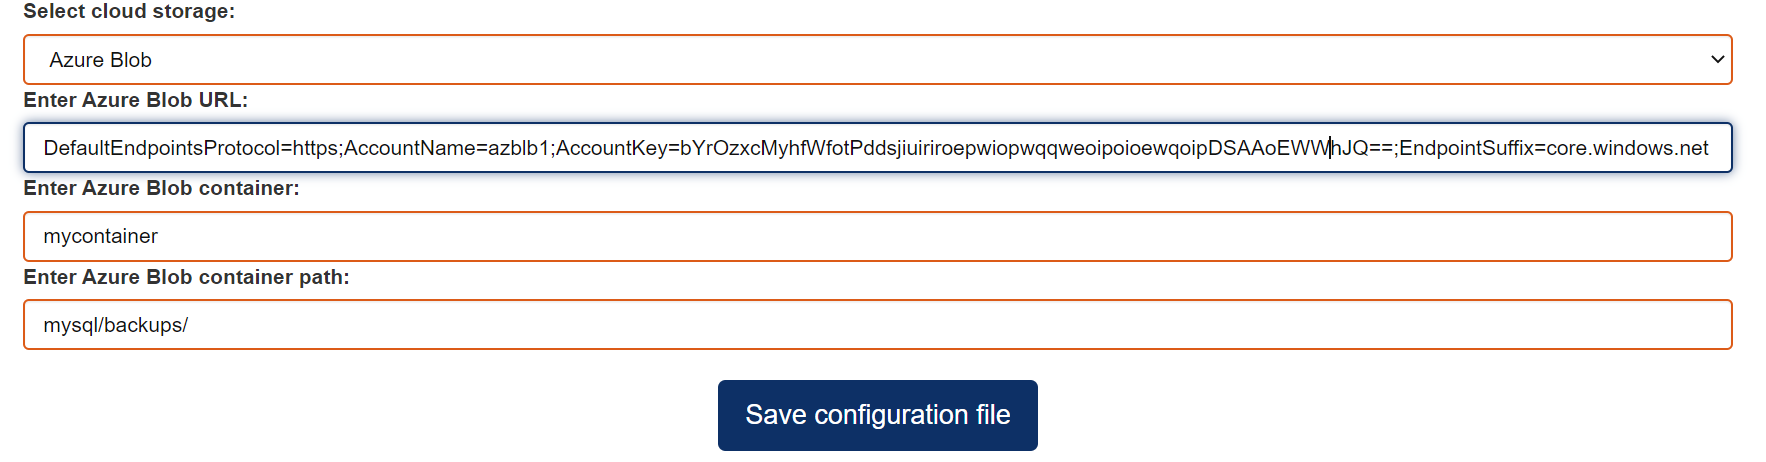
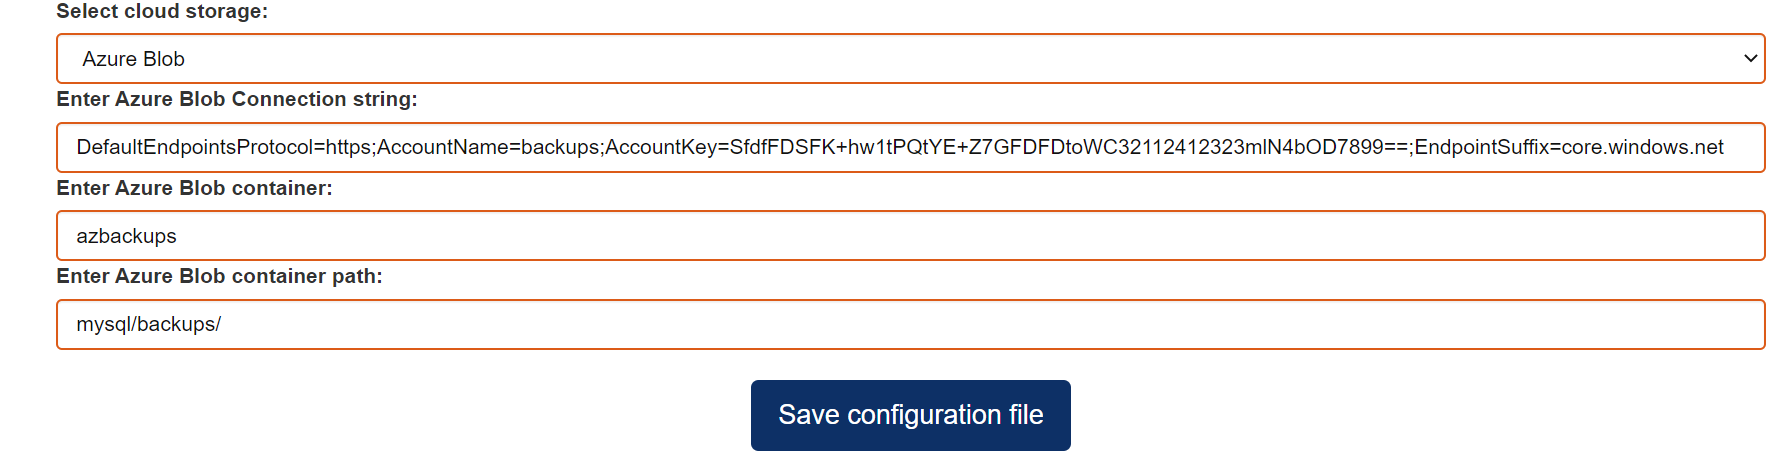
Change azure URL to azure connection string

Changed region(s): [[0.0, 0.0, 0.9966, 0.7576], [0.4049, 0.7879, 0.6229, 1.0]]

diff --git a/src/main/resources/public/index.html b/src/main/resources/public/index.html
@@ -196,8 +196,8 @@
         </div>
 
         <div id="divAzure" hidden="hidden">
-          <label for="txtAzUrl">Enter Azure Blob URL:</label>
-          <input id="txtAzUrl" type="text" class="form-control" placeholder="Azure Blob URL" cfgkey="AZBLOB_URL" name="txtAzUrl" />
+          <label for="txtAzUrl">Enter Azure Blob Connection string:</label>
+          <input id="txtAzUrl" type="text" class="form-control" placeholder="Azure Blob Connection string" cfgkey="AZBLOB_URL" name="txtAzUrl" />
 
           <label for="txtAzCnt">Enter Azure Blob container:</label>
           <input id="txtAzCnt" type="text" class="form-control" placeholder="Azure Blob container" cfgkey="AZBLOB_CONTAINER" name="txtAzCnt" />
